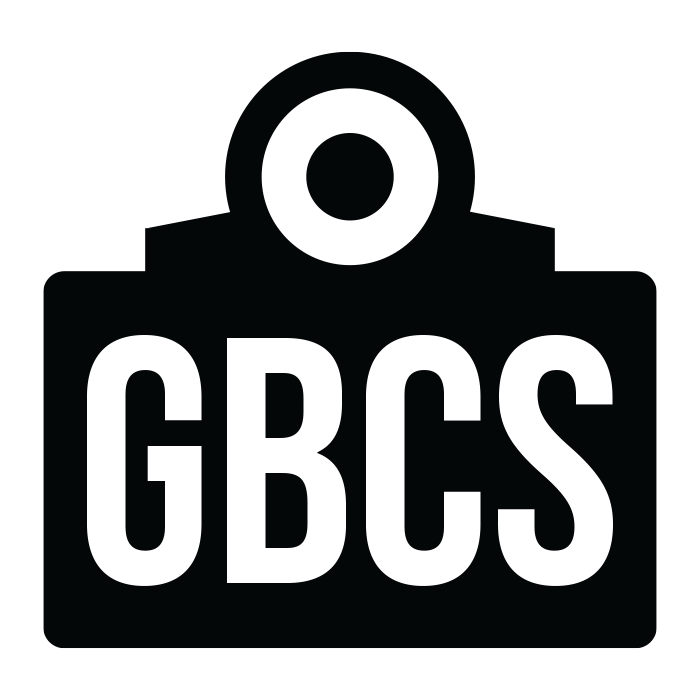
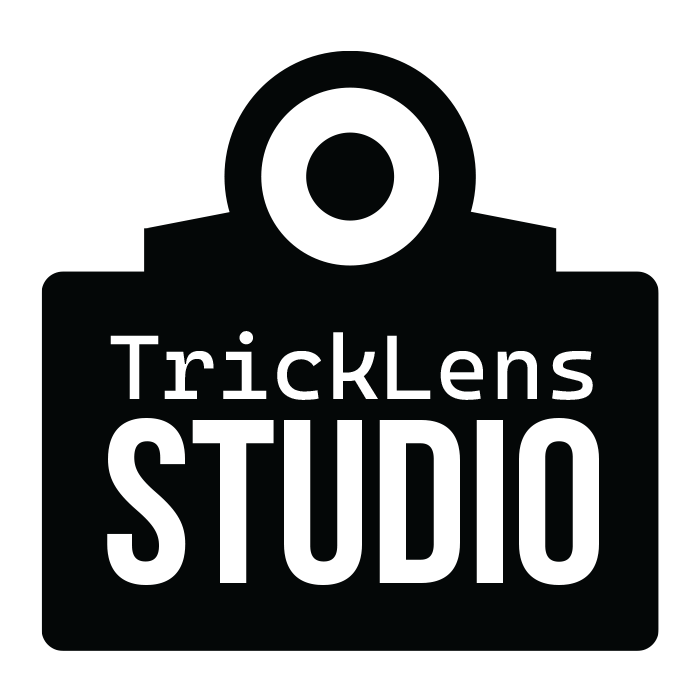
rename

diff --git a/src/components/ToolBar.js b/src/components/ToolBar.js
@@ -2,7 +2,7 @@ import { forwardRef } from 'react';
 import PropTypes from 'prop-types';
 import PaletteSelector from '../components/PaletteSelector.js';
 import FileLoader from '../components/FileLoader.js';
-import { parseSave } from 'gbcam-js';
+import { parseSave } from 'tricklens-js';
 import * as styles from './ToolBar.module.css';
 
 const ToolBar = forwardRef(
@@ -70,7 +70,7 @@ const ToolBar = forwardRef(
                             &#9965;
                         </button>
                     </div>
-                    <span className={`${styles.logo} fontBold`}>GBCam Studio</span>
+                    <span className={`${styles.logo} fontBold`}>TrickLens Studio</span>
                 </div>
             </>
         );

diff --git a/src/components/EditModal.js b/src/components/EditModal.js
@@ -2,7 +2,7 @@ import { useState, useEffect } from 'react';
 import PropTypes from 'prop-types';
 import Photo from '../components/Photo.js';
 import * as styles from './EditModal.module.css';
-import { applyEffect, createMontage } from 'gbcam-js';
+import { applyEffect, createMontage } from 'tricklens-js';
 import { useCanvasDrawer } from '../hooks/useCanvasDrawer.js';
 
 const EditModal = ({

diff --git a/src/index.html b/src/index.html
@@ -3,7 +3,7 @@
 
 <head>
     <meta charset="UTF-8">
-    <title>GBCam Studio</title>
+    <title>TrickLens Studio</title>
     <meta name="viewport" content="width=device-width, initial-scale=1, maximum-scale=1, user-scalable=no">
     <meta name="description" content="A basic React setup using NPM and Webpack.">
     <meta name="keywords" content="React">

diff --git a/src/hooks/usePhotoRenderer.js b/src/hooks/usePhotoRenderer.js
@@ -1,5 +1,5 @@
 import { useRef, useEffect } from 'react';
-import { palettes, applyPalette } from 'gbcam-js';
+import { palettes, applyPalette } from 'tricklens-js';
 import { recolorFrame, composeImage } from '../utils/canvasUtils.js';
 import { getFrameOffsets } from '../utils/frameUtils.js';
 

diff --git a/src/components/PaletteSelector.js b/src/components/PaletteSelector.js
@@ -1,6 +1,6 @@
 import { useState } from 'react';
 import PropTypes from 'prop-types';
-import { palettes } from 'gbcam-js';
+import { palettes } from 'tricklens-js';
 import * as styles from './PaletteSelector.module.css';
 import Modal from './Modal.js';
 

diff --git a/README.md b/README.md
@@ -1,8 +1,8 @@
-# GBCamStudio
+# TrickLens Studio
 
 https://gbcs.nicksneed.com/
 
-GBCamStudio is a web-based utility that allows you to view, customize, and export your Game Boy Camera photos from a `.sav` file.
+TrickLens is a web-based utility that allows you to view, customize, and export your Game Boy Camera photos from a `.sav` file.
 
 ## Features
 
@@ -15,7 +15,7 @@ GBCamStudio is a web-based utility that allows you to view, customize, and expor
 
 ## How to Use
 
-1.  Open the GBCamStudio application in your web browser.
+1.  Open the TrickLens application in your web browser.
 2.  Use the "Load .sav" button to open your Game Boy Camera save file.
 3.  Your photos will be displayed in a grid.
 4.  Use the toolbar to change the palette, add a frame, or adjust other settings.
